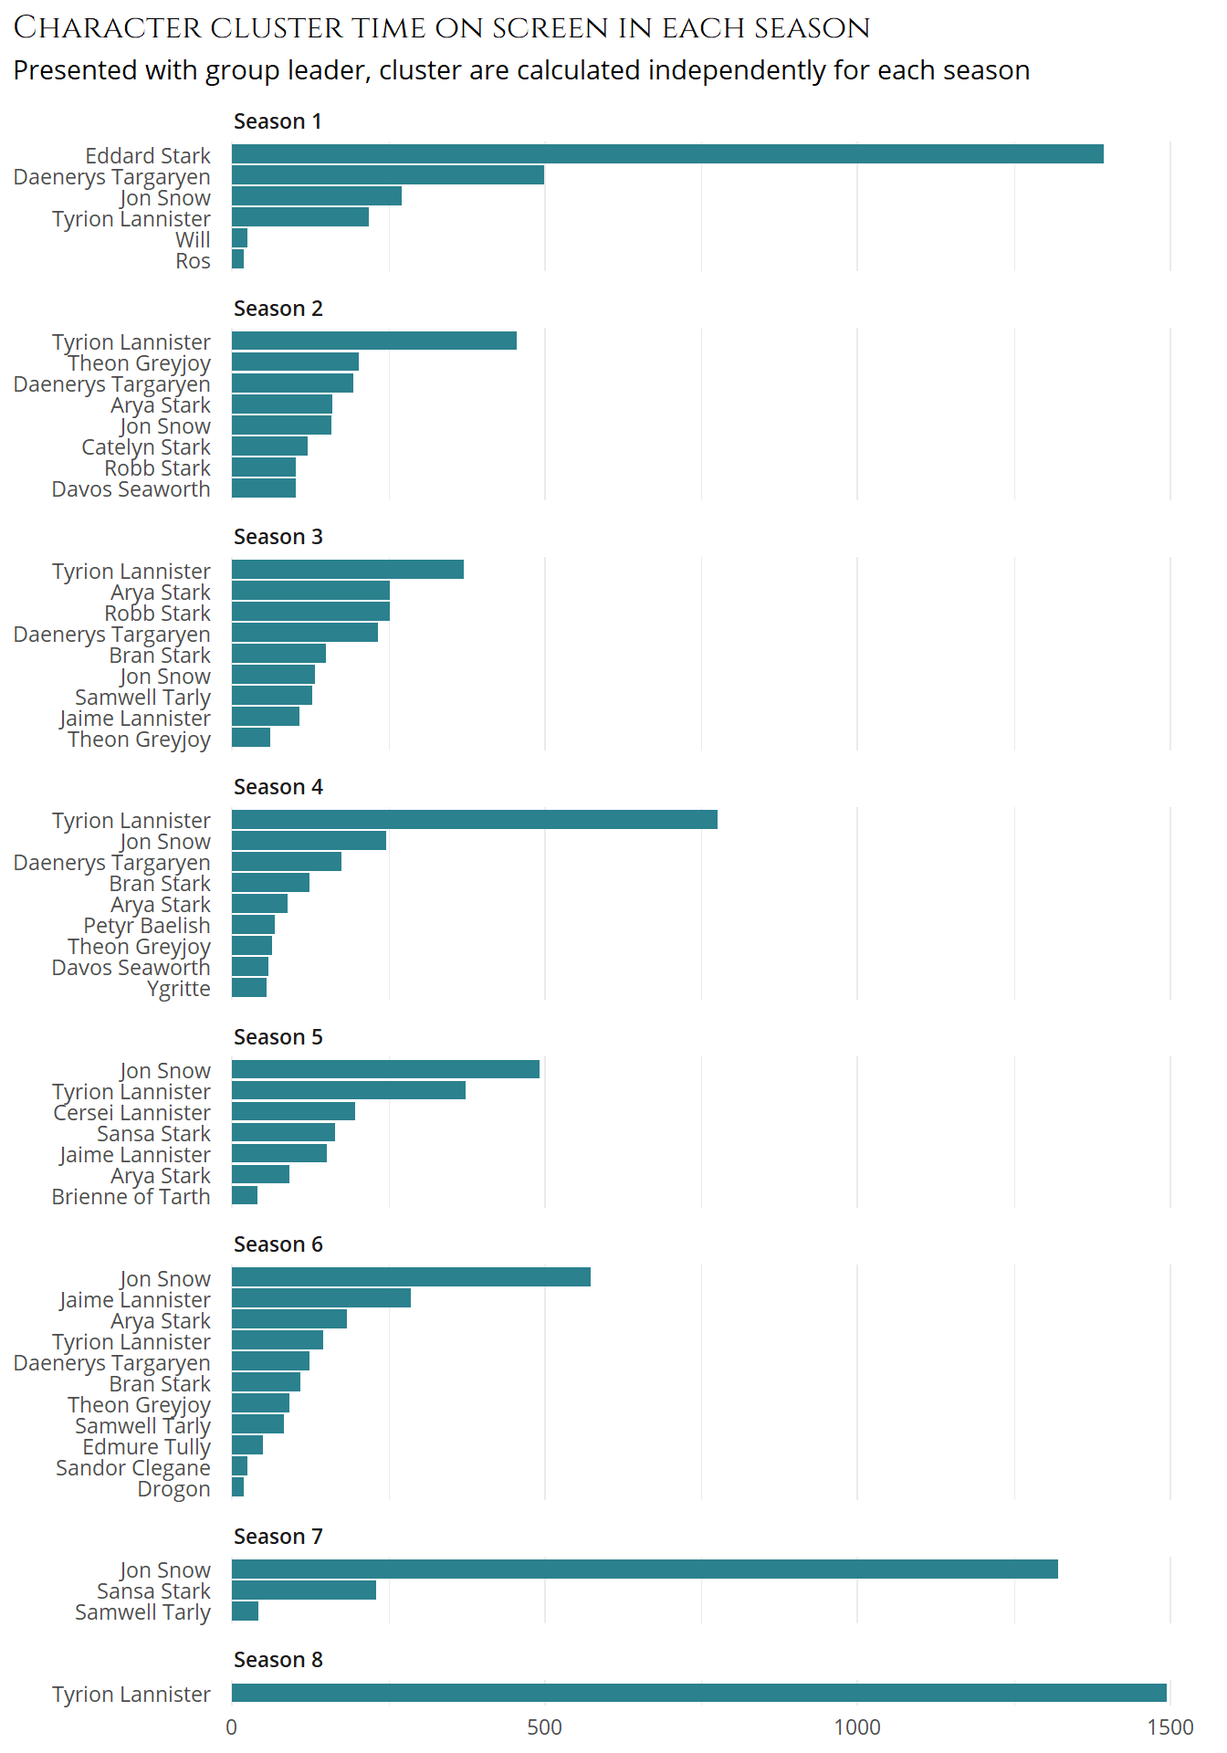
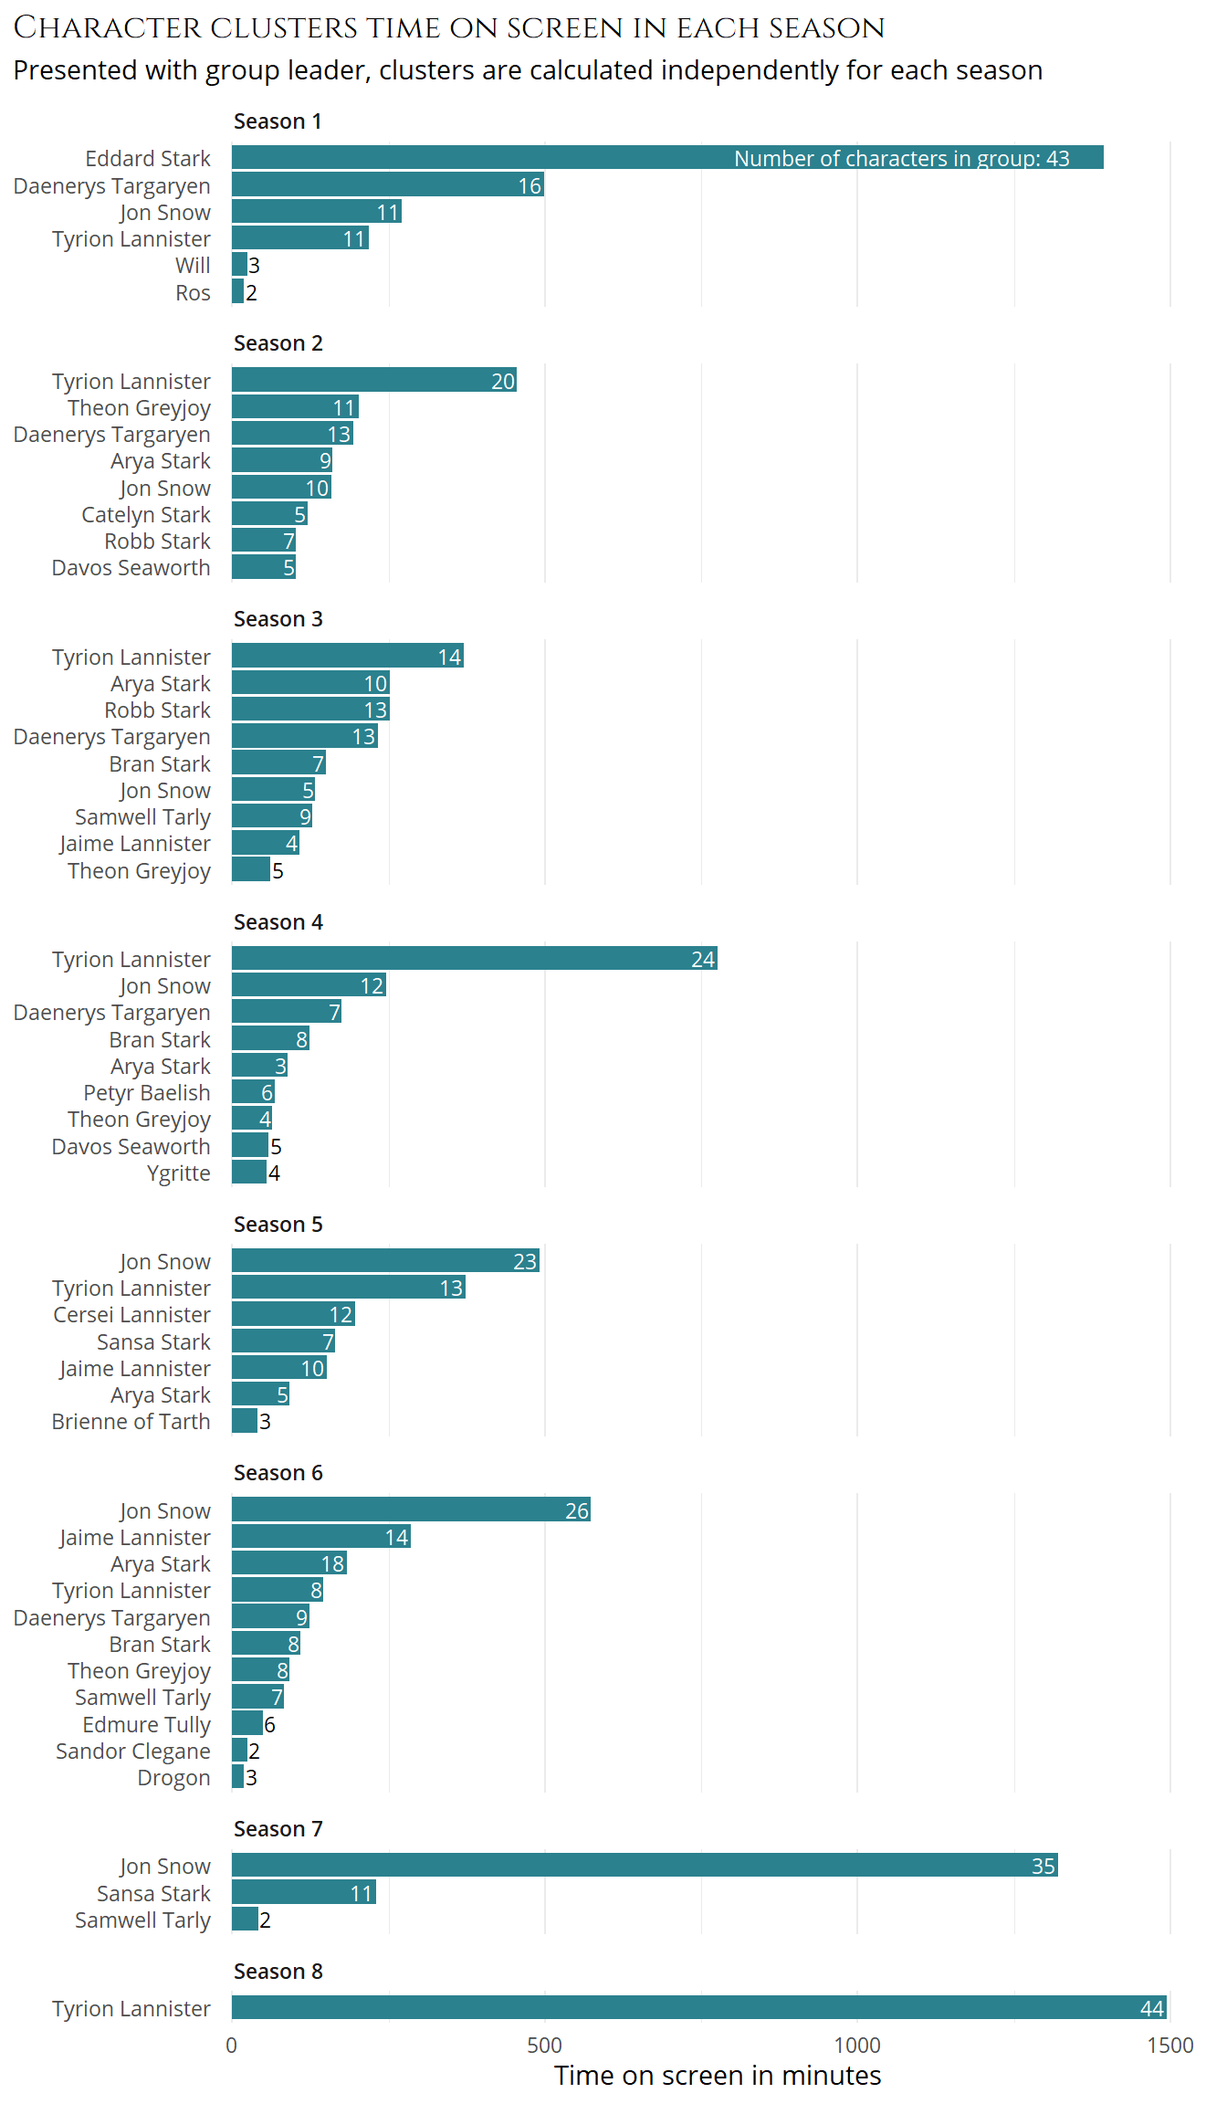
update article

Changed region(s): [[0.0, 0.0, 0.9688, 1.0]]

diff --git a/content/post/2020-04-28-game-of-thrones-building-netwok-graph/index.html b/content/post/2020-04-28-game-of-thrones-building-netwok-graph/index.html
@@ -20,13 +20,15 @@ projects: []
 
 
 
-<p>One of the thing I found interesting in the Game of Throne data was to visualise relationship between characters. I started doing that on a character by character basis in the <a href="post/game-of-thrones-character-profile-interactive-rmarkdown/">previous post</a>. The next thing I wanted to try out was to build network graphs.</p>
+<p>One of the thing I found interesting in the Game of Thrones data was to visualise relationship between characters. I started doing that on a character by character basis in the <a href="post/game-of-thrones-character-profile-interactive-rmarkdown/">previous post</a>. The next thing I wanted to try out was to build network graphs.</p>
 <p>The thing is… I had no experience doing that with R, no knowledge on graphs and layout. I knew that Thomas Lin Pedersen’s packages “<a href="https://www.data-imaginist.com/2017/ggraph-introduction-layouts/">ggraph</a>” and “<a href="https://www.data-imaginist.com/2017/introducing-tidygraph/">tidygraph</a>” existed but that was about it.</p>
 <p>This was not very frightening because as with most things with R someone, somewhere must have done a really comprehensive and easy to understand introduction to these tools. Well, that’s what I thought, but I was surprised to struggle to find the content that would have made the making of these graphs easy. I think I must have missed it. Finally, finding pieces of information here and there, I managed to get a result that I was quite satisfied with.</p>
-<p>I am going to walk you briefly through how I did it, but of course, as my knowledge of graph theory is very very limited the information that I will provide is also. To sum it up, I got something that worked for this particular case, that may help for other cases but that will not be fully generalisable.</p>
+<p>I am going to walk you briefly through how I did it, but of course, as my knowledge of graph theory is very limited the information that I will provide is also. To sum it up, I got something that worked for this particular case, that may help for other cases but that will not be fully generalisable.</p>
 <div id="lets-get-started" class="section level2">
 <h2>Let’s get started</h2>
-<p>We first import the data and set a time limit. After some trial and errors I found that 20 minutes was giving nice results.</p>
+<div id="setting-up" class="section level3">
+<h3>Setting up</h3>
+<p>We first load our packages and import the data. Then we set a time limit, the minimum time a character must have appeared on screen to be added to our plots. After some trial and errors I found that 20 minutes was giving nice results.</p>
 <p>The data is the one prepared <a href="/post/game-of-thrones-data-wrangling-and-some-viz/">here</a>.</p>
 <pre class="r"><code>library(tidyverse)
 library(glue)
@@ -41,19 +43,21 @@ extrafont::loadfonts(device = &quot;win&quot;)
 got &lt;- read_csv(here(&quot;static/inputs/got/data_prep_scenes.csv&quot;))
 
 time_limit &lt;- 20</code></pre>
-<p>A tidygraph object is composed of two dataframe : one with the nodes (points) and one with the edges (links).
-First we get the node out of our dataset, it is fairly easy. We keep only the name of the character and the time they appeared on screen. We will use that time as the node size.</p>
+</div>
+<div id="creating-a-tidygraph" class="section level3">
+<h3>Creating a tidygraph</h3>
+<p>What we want to do is create a tidygraph object. A tidygraph object is composed of two tibbles : one with the nodes (points) and one with the edges (links).</p>
+<p>First, we get the node out of our dataset, it is fairly easy. We keep only the name of the characters and the time they appeared on screen. We will use that time as the node size.</p>
 <pre class="r"><code>nodes &lt;- got %&gt;% 
-  select(seasonNum, episodeNum, sceneNum, time, name) %&gt;% 
-  # we group by name to filter for character that appear 
+  # we group by name to filter for characters that appear 
   # more than 20 minutes during the show
   group_by(name) %&gt;%
   # we divide by 60 because time is in seconds
   summarise(time = sum(time) / 60) %&gt;%
   filter(time &gt; time_limit) %&gt;% 
   ungroup()</code></pre>
-<p>Next we need to select the edges. Our edge data should be a tibble with a ‘from’ and a ‘to’ column. We will also add a time component that can be used as a weighing variable. So we need to do a bit of manipulation.</p>
-<p>First, let’s filter for the characters that spend at least 20 minutes on screen. We also add a scene id, unique to every scene. Finally, we replicate the name column.</p>
+<p>Next, we need to build our edges tibble. This tibble should contain a ‘from’ and a ‘to’ column, describing the relationships. We will also add a time component that can be used as a weighting variable. So we need to do a bit of manipulation.</p>
+<p>First, let’s filter for the characters that spend at least 20 minutes on screen. We also add a scene id, unique to every scene. Finally, we duplicate the name column.</p>
 <pre class="r"><code>scenes_select &lt;- got %&gt;% 
   #we give an id to every scene in the dataset, we will use it later on
   nest(names = name) %&gt;% 
@@ -62,7 +66,7 @@ First we get the node out of our dataset, it is fairly easy. We keep only the na
   unnest(names) %&gt;% 
   # we do the same manipulation to filter for character that appear at least
   # 20 minutes but with mutate instead of summarise
-  # we could also have used a semi-join with the node dataset
+  # (we could also have used a semi-join with the node dataset)
   group_by(name) %&gt;% 
   mutate(total = sum(time) / 60) %&gt;% 
   filter(total &gt; time_limit) %&gt;% 
@@ -70,8 +74,8 @@ First we get the node out of our dataset, it is fairly easy. We keep only the na
   select(-total) %&gt;% 
   # finaly we add a column name_2 that is exactly the same as name
   mutate(name_2 = name)</code></pre>
-<p>So, why did I replicate the name column ? Well, because it is the only trick I found to transform the dataset into the format we were looking for. I am certain that a more elegant solution must exist and I am very willing to learn it if someone would be kind enough to present it to me.</p>
-<p>The idea is to use the expand (from the tidyr package) function to create all the possible combination in each scene. The main downside of this technic is that we get all the combinations in both direction including ‘from’ and ‘to’ the same character. The later ones we can filter right away, we will deal with the other replicate combination later with tidygraphs tool.</p>
+<p>So, why duplicating the name column ? Well, because it is the only trick I found to transform the dataset into the format we were looking for. I am fairly confident that a more elegant solution must exist, but I have not found it yet.</p>
+<p>The idea is to use the <strong>expand</strong> function (from the tidyr package) to create all the possible combination in each scene. The main downside of this technic is that we get all the combinations in both direction, including ‘from’ and ‘to’ the same character. The later ones we can filter right away, we will deal with the other replicate combination later with tidygraph’s tools.</p>
 <pre class="r"><code>combination &lt;- 
   scenes_select %&gt;% 
   # creating all possible combination in each scene with expand and scene id
@@ -86,16 +90,21 @@ First we get the node out of our dataset, it is fairly easy. We keep only the na
   # the time column in the node dataset
   rename(from = &quot;name&quot;, to = &quot;name_2&quot;, edge_time = time) %&gt;% 
   ungroup()</code></pre>
-<p>Nice ! I know have a nodes and a edges dataframe that I can combine in a tidygraph object.
+<p>Nice ! We know have both a “nodes” and a “edges” tibble that can be combined into a tidygraph object.
 We set ‘directed’ to false, because our data is not directional.</p>
 <p>A tidygraph object can be manipulated in a similar fashion as a dataframe with tidyverse verbs. What we need to do is use <strong>activate</strong> to choose wether we want to modify the nodes ot the edges (nodes are activated by default).</p>
 <p>What we do first is to activate the edges to filter out replicated relationship. We use the function <strong>edge_is_multiple</strong>. This function allows us to keep only one of our mutual relationship (which are redundant since our data is not directional).</p>
+<p>The we activate back the node and use the <strong>group_infomap</strong> function to create clusters of characters.</p>
 <pre class="r"><code>graph &lt;- tbl_graph(nodes, combination, directed = FALSE) %&gt;% 
   activate(edges) %&gt;% 
   filter(!edge_is_multiple()) %&gt;% 
   activate(nodes) %&gt;% 
   mutate(group = group_infomap(weights = edge_time))</code></pre>
+</div>
+<div id="plotting" class="section level3">
+<h3>Plotting</h3>
 <pre class="r"><code>graph_plot &lt;- ggraph(graph, layout = &quot;fr&quot;, weights = edge_time) +
+  # a fill density showing the intensity of the network in the background
   geom_edge_density(aes(fill = edge_time)) +
   geom_edge_link(alpha = 0.1) +
   geom_node_point(aes(size = time, color = as_factor(group))) +
@@ -122,8 +131,12 @@ We set ‘directed’ to false, because our data is not directional.</p>
 
 graph_plot</code></pre>
 <p><img src="/plots/got/network.png"></p>
-<p>What do we see ? Well at first nothing, let’s open the <a href="/plots/got/network.pdf">pdf</a>, or the image in a new tab.<br />
-There are 5 groups, let’s do a little table to sum up some information about them.</p>
+<p>What do we see ? Well at first nothing, let’s open the <a href="/plots/got/network.pdf">pdf</a>, or the image in a new tab.</p>
+<p>We have one large group that I would say encompass most of the characters of Westeros from the Wall to Dorne. Two intermediate groups around two of the most important characters : Jon Snow and Daenerys. Then there is the Bran group, with notably the Three-Eyed-Raven. Finally, there is a group revolving around Catelyn and Robb Stark.</p>
+</div>
+<div id="doing-a-little-summary-table" class="section level3">
+<h3>Doing a little summary table</h3>
+<p>There are 5 groups, let’s do a little table to sum up some information about them.</p>
 <pre class="r"><code>graph %&gt;% 
   as_tibble() %&gt;% 
   group_by(group) %&gt;% 
@@ -519,52 +532,28 @@ There are 5 groups, let’s do a little table to sum up some information about t
   
   
 </table></div>
-<p>We have one large group that I would say encompass most of the characters of Westeros from the Wall to Dorne. Two intermediate groups around two of the most important characters : Jon Snow and Daenerys. Then there is the Bran group, with notably the Three-Eyed-Raven. Finally, there is a group revolving around Catelyn and Robb Stark.</p>
+</div>
 </div>
 <div id="looking-at-it-season-by-season" class="section level2">
 <h2>Looking at it season by season</h2>
-<p>I have not included the code in the post because it is the same as before using the <strong>purr:map()</strong> functions to loop through the seasons.
-If you want to look at it you can here.</p>
-<pre class="r"><code>graphs_plots &lt;- graphs %&gt;% 
-  map2(1:8,
-       ~.x %&gt;% ggraph(layout = &quot;kk&quot;, weights = edge_time) +
-          geom_edge_density(aes(fill = edge_time)) +
-          geom_edge_link(alpha = 0.1) +
-          geom_node_point(aes(size = time, color = as_factor(group))) +
-          geom_node_text(aes(label = name), repel = TRUE, size = 4) +
-          labs(title = paste0(&quot;Game of Thrones : Season &quot;, .y,&quot; Networking&quot;),
-               subtitle = glue(&quot;Node color correspond to cluster of characters,\\
-                               characters that appear at least 5 minutes during the season&quot;)) +
-          scale_color_got_d() +
-          theme_graph() +
-          theme(legend.position = &quot;none&quot;,
-                plot.title = element_text(family = &quot;Cinzel&quot;)))
-
-graphs_plots %&gt;% 
-  map2(1:8, ~ggsave(plot = .x,
-                    here(paste0(&quot;static/plots/got/graph_season/season_&quot;, .y, &quot;.pdf&quot;)),
-                    device = cairo_pdf,
-                    dpi = 320,
-                    width = 20,
-                    height = 20))
-
-pdftools::pdf_combine(paste0(here(&quot;static/plots/got/graph_season&quot;),
-                             &quot;/&quot;,
-                             list.files(here(&quot;static/plots/got/graph_season&quot;))),
-                      here(&quot;static/plots/got/graph_season/all.pdf&quot;))</code></pre>
-<p><a href="/plots/got/graph_season/all.pdf">Here</a> you can see the graphs, but I must warn you, most of they are quiete painful to look at.
-Instead let’s see what we can learn from the data.</p>
-<pre class="r"><code>graphs %&gt;% 
-  map_dfr(as_tibble) %&gt;% 
-  group_by(seasonNum) %&gt;% 
+<p>I have not included the code in the post because it is the same as before using the <strong>purr:map()</strong> function to loop through the seasons.
+If you want to take a look at it you can <a href="https://github.com/Alexisko/r-blog/blob/master/content/post/2020-04-28-game-of-thrones-building-netwok-graph/season_graph.R">here</a>.</p>
+<p>First, let’s evacuate the question of the graphs. You can see them <a href="/plots/got/graph_season/all.pdf">here</a>. They range from nice to terrible depending on the season. I will not focus on that, instead let’s see what we can learn from the data.</p>
+<pre class="r"><code>graphs %&gt;%
+  map_dfr(as_tibble) %&gt;%
+  group_by(seasonNum) %&gt;%
   summarise(group = max(group),
-            n = n()) %&gt;% 
-  select(Season = seasonNum, `Character count` = n, `Cluster count` = group) %&gt;% 
-  gt() %&gt;% 
+            n = n()) %&gt;%
+  select(
+    Season = seasonNum,
+    `Character count` = n,
+    `Cluster count` = group
+  ) %&gt;%
+  gt() %&gt;%
   tab_header(
     title = &quot;Number of characters and cluster in each GoT season&quot;,
-    subtitle = &quot;Characters that appear 5 minutes in a season&quot;
-  ) %&gt;% 
+    subtitle = &quot;Characters appearing at least 5 minutes in a season&quot;
+    ) %&gt;%
   cols_align(&quot;center&quot;)</code></pre>
 <style>html {
   font-family: -apple-system, BlinkMacSystemFont, 'Segoe UI', Roboto, Oxygen, Ubuntu, Cantarell, 'Helvetica Neue', 'Fira Sans', 'Droid Sans', Arial, sans-serif;
@@ -906,7 +895,7 @@ Instead let’s see what we can learn from the data.</p>
       <th colspan="3" class="gt_heading gt_title gt_font_normal" style>Number of characters and cluster in each GoT season</th>
     </tr>
     <tr>
-      <th colspan="3" class="gt_heading gt_subtitle gt_font_normal gt_bottom_border" style>Characters that appear 5 minutes in a season</th>
+      <th colspan="3" class="gt_heading gt_subtitle gt_font_normal gt_bottom_border" style>Characters appearing at least 5 minutes in a season</th>
     </tr>
   </thead>
   <thead class="gt_col_headings">
@@ -961,16 +950,28 @@ Instead let’s see what we can learn from the data.</p>
   
   
 </table></div>
-<p>Looking at the two last season we can see a dramatic change. The number of cluster and character reduces drastically. On the other hand, during the first 4 seasons we can see the number of cluster increasing with stable or descending number of character. My interpretation is that as characters moved away from the initial situation into adventures they create smaller groups. And then, to summarise the show in the few words : half died, the other half rejoined.</p>
+<p>Looking at the two last season we can see a dramatic change. The number of clusters and characters reduces drastically.<br />
+On the other hand, during the first 4 seasons we can see the number of cluster increasing with stable or descending number of characters. My interpretation is that as characters moved away from the initial situation into adventures they create smaller groups. And then, to summarise the show in the few words : half died, the other half reunited.</p>
 </div>
 <div id="finally-lets-look-at-who-are-the-cluster-leaders-in-each-season" class="section level2">
 <h2>Finally : let’s look at who are the cluster leaders in each season</h2>
+<p>I find this a good resource to look at before taking a look at the network graphs. It give you an overall image that is necessary because the other network plots are messy.</p>
 <pre class="r"><code>library(ggforce)
 
 graphs %&gt;% 
   map_dfr(as_tibble) %&gt;% 
   group_by(seasonNum, group) %&gt;% 
-  mutate(time_group = sum(time)) %&gt;% 
+  mutate(time_group = sum(time),
+         n = as.character(n()),
+         n = ifelse(name == &quot;Eddard Stark&quot;,
+                    paste0(&quot;Number of characters in group: &quot;, n),
+                    n),
+         hjust = ifelse(time_group &lt; 62,
+                        -0.1,
+                        1.1),
+         color = ifelse(time_group &lt; 62,
+                        &quot;black&quot;,
+                        &quot;white&quot;)) %&gt;% 
   filter(time == max(time)) %&gt;% 
   ungroup() %&gt;% 
   mutate(seasonNum = paste0(&quot;Season &quot;, seasonNum),
@@ -978,12 +979,16 @@ graphs %&gt;%
   ggplot(aes(time_group, name)) + 
   tidytext::scale_y_reordered() +
   geom_col(fill = &quot;#2B818EFF&quot;) +
+  geom_text(aes(label = n, hjust = hjust, color = color),
+            family = &quot;Open Sans&quot;,
+            size = 3) +
   facet_col(~seasonNum, scales = &quot;free_y&quot;, space = &quot;free&quot;) +
   scale_x_continuous(expand = expansion(mult = c(0.01, 0.05))) +
-  labs(x = NULL, 
+  scale_color_identity() +
+  labs(x = &quot;Time on screen in minutes&quot;, 
        y = NULL,
-       title = &quot;Character cluster time on screen in each season&quot;,
-       subtitle = glue(&quot;Presented with group leader, cluster are \\
+       title = &quot;Character clusters time on screen in each season&quot;,
+       subtitle = glue(&quot;Presented with group leader, clusters are \\
                        calculated independently for each season&quot;)) +
   theme_minimal(base_family = &quot;Open Sans&quot;) +
   theme(plot.title.position = &quot;plot&quot;, 
@@ -992,4 +997,5 @@ graphs %&gt;%
         strip.text = element_text(family = &quot;Open Sans SemiBold&quot;,
                                   hjust = 0))</code></pre>
 <p><img src="/post/2020-04-28-game-of-thrones-building-netwok-graph/index_files/figure-html/fig-1.png" width="100%" /></p>
+<p>To conclude, I just wanted to do some plots of networks, but finally it’s making clusters that gave the most intersting information. I just scratch the surface of what tidygraph could do, and it seems very interesting.</p>
 </div>

diff --git a/content/post/2020-04-27-game-of-thrones-character-profile-interactive-rmarkdown/index.html b/content/post/2020-04-27-game-of-thrones-character-profile-interactive-rmarkdown/index.html
@@ -21,7 +21,7 @@ projects: []
 
 
 <p>I had experienced with Shiny App a few times in the past, with the <a href="/post/game-of-thrones-data-wrangling-and-some-viz/">Game of Thrones data</a> I built for the first time a Shiny Rmarkdown document.<!--more--></p>
-<p>You can find the code at the end. I wanted to do some minor modification before publishing it here, but I updated R to version 4.0.0 and for now shinyapps.io do not seem willing to work with that.</p>
+<p>You can find the code at the end. I wanted to do some minor modifications before publishing it here, but I updated R to version 4.0.0 and for now shinyapps.io do not seem willing to work with that. So this is not a totally finished product.</p>
 <p><em>It may take a few seconds to load. Only suitable to be seen on large screen</em></p>
 <html>
 <link rel="stylesheet" href="/css/shiny_rmarkdown.css"/>
